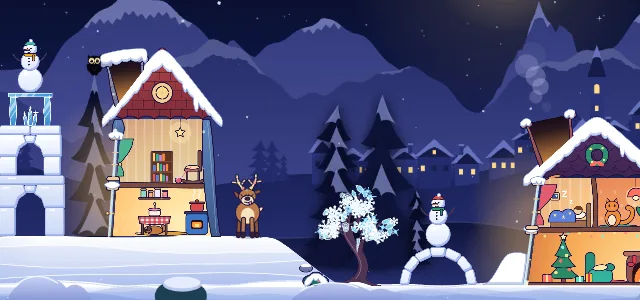
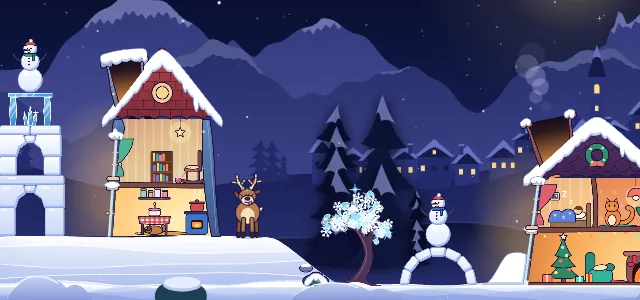
Pagina di avvio ricomposta: luna più a destra, titolo nel cielo, pulsanti in basso con Livelli
- Luna e gufo spostati a destra in tutto il gioco; promontorio roccioso non più sotto la luna
- Titolo alto nel cielo, centrato a sinistra della luna, lucine centrate sopra, PLAY in asse sotto
- Sulla pagina di avvio tutti i pulsanti in vista in basso a destra, anche Livelli
- Su computer il nome del livello sta sulla riga dei tre pallini
- Banner e anteprime dei livelli rifatti; service worker xmas26-v7

Claude-Session: https://claude.ai/code/session_01XhnLWWyvg1juX6865A71G7

diff --git a/src/render/hudDraw.js b/src/render/hudDraw.js
@@ -1,7 +1,7 @@
 import { VIEW_W, VIEW_H, GFX, GIFTS, SCORE, INTRO } from '../config.js';
 import { WALL, isPlugged } from '../entities/house.js';
 import { centroid } from '../physics/polygon.js';
-import { X, Y, TAU, stella5, V, setView, HUD, panelFit } from './view.js';
+import { X, Y, TAU, stella5, V, setView, HUD, UI, panelFit } from './view.js';
 import { cappello } from './snow.js';
 import { daCache } from './textCache.js';
 import { drawGiftIcon } from './propsDraw.js';
@@ -236,10 +236,12 @@ export function drawHud(ctx, game, top = 0) {
     daCache(ctx, `hud|${tipi.join(',')}|${punti}`, 0, 0, 460, 62, 0, 0, (c) => hudPacchiPunti(c, tipi, punti));
     ctx.restore();
   }
-  const yn = Math.max(76, top + 8 + 10 * k); // sotto i pulsanti
+  // nome del livello (solo su computer): sulla riga dei pulsanti, alla loro sinistra; sotto coprirebbe la luna
+  const yn = Math.max(24, top / 2 + 5);
+  const xn = Math.min(VIEW_W - 16, UI.left - 14);
   if (k <= GFX.hudNomeMax && game.state !== 'intro') { // durante la regia il nome è già grande in alto al centro; // sui telefoni (HUD ingrandito) il nome del livello non si mostra: toglie spazio alla scena
   ctx.save();
-  ctx.translate(VIEW_W - 16, yn);
+  ctx.translate(xn, yn);
   ctx.scale(k, k);
   daCache(ctx, `nome|${game.level.name}`, 0, 0, 620, 24, 620, 12, (c) => {
     c.globalAlpha = 0.72;
@@ -342,8 +344,8 @@ export function drawTitle(ctx, game, o = {}) {
   ctx.fillRect(0, 0, VIEW_W, VIEW_H);
   // filo di lucine appeso sopra il titolo
   const col = ['#ff6f61', '#ffd36b', '#5fe0b8', '#8fc8ff'];
-  const x0 = T.x - 340;
-  const lf = 590; // lunghezza del filo: si ferma prima della luna
+  const lf = 640; // lunghezza del filo, centrato sul titolo (finisce prima della luna)
+  const x0 = T.x - lf / 2;
   const filo = (u) => T.y - 92 + 26 * 4 * u * (1 - u);
   ctx.strokeStyle = 'rgba(20,16,60,0.9)';
   ctx.lineWidth = 2;
@@ -426,7 +428,7 @@ export function drawTitle(ctx, game, o = {}) {
   ctx.fill();
   testo(ctx, 'PLAY', 28, 2, 44, { col: '#fff', bordo: false, peso: 800 });
   ctx.restore();
-  if (o.stelle?.n) testo(ctx, `★ ${o.stelle.n} su ${o.stelle.max}`, T.x, T.play.y + 78, 20, { col: C.oro, bordo: 'rgba(12,14,52,0.7)', peso: 700 });
+  if (o.stelle?.n) testo(ctx, `★ ${o.stelle.n} su ${o.stelle.max}`, T.play.x, T.play.y + 78, 20, { col: C.oro, bordo: 'rgba(12,14,52,0.7)', peso: 700 });
 }
 
 /** Nome del livello al centro mentre la camera mostra le case (dissolvenza in entrata e uscita). */

diff --git a/src/config.js b/src/config.js
@@ -285,16 +285,16 @@ export const GFX = {
    * (aguzza, altopiano, asimmetrica, doppia, tonda; `roccia` solo a mano).
    * Le medie, più vicine, sono più basse e più tonde delle lontane.
    */
-  montiForma: [{ scala: 0.62, valle: 165, alzaVette: { 2: 120 }, togliVette: [3], varieta: true, vette: [{ x: 1005, h: 400, w: 190, forma: 'roccia' }] }, { scala: 0.55, valle: 165, tondo: 0.7, sposta: -140, vette: [{ x: 130, h: 330, w: 300 }], spostaVette: { 2: 120 } }],
+  montiForma: [{ scala: 0.62, valle: 165, alzaVette: { 2: 120 }, togliVette: [3], varieta: true, vette: [{ x: 1125, h: 400, w: 190, forma: 'roccia' }] }, { scala: 0.55, valle: 165, tondo: 0.7, sposta: -140, vette: [{ x: 130, h: 330, w: 300 }], spostaVette: { 2: 120 } }],
   stars: 150, // stelle fisse dipinte nel cielo
   atlas: { size: 2048, maxSprite: 512, pad: 2 }, // atlante degli sprite piccoli (px): una sola immagine per la scheda video
-  moon: { x: 905, y: 110, r: 44 }, // luna (px logici del cielo): disegnata nel cielo, dietro tutti i piani delle montagne
+  moon: { x: 1000, y: 110, r: 44 }, // luna (px logici del cielo): disegnata nel cielo, dietro tutti i piani delle montagne
   pannello: { x1: 920, y0: 16, y1: 516, margine: 8 }, // ingombro del pannello di fine livello (px logici, neve compresa) e distanza minima dai pulsanti in alto e dal bordo in basso
   /**
    * Pagina di avvio (px logici): centro del blocco del titolo, riga del titolo e del sottotitolo, centro e misure del
    * pulsante PLAY (che il gufo guarda). Il blocco sta a sinistra della luna, sopra la slitta e la fionda.
    */
-  titolo: { x: 540, y: 196, play: { x: 540, y: 392, w: 250, h: 88 } },
+  titolo: { x: 482, y: 122, play: { x: 482, y: 322, w: 250, h: 88 } },
   panelSnowPpm: 60, // scala (px per metro) del cappello di neve sul pannello di fine livello: neve grande come sui tetti
   piniAlone: 18, // sfumatura (px) dell'alone scuro attorno ai pini dietro la scena
   piniSchiarita: 0.1, // pini dietro la scena: quanto schiariscono verso la base (0 = tono pieno); bassa = sagome scure che si staccano dalle montagne

diff --git a/src/style.css b/src/style.css
@@ -60,7 +60,7 @@ canvas#game {
   gap: 6px;
   transition: opacity 0.2s;
 }
-/* Durante la mira e il lancio (e sulla pagina di avvio i pulsanti di gioco) i pulsanti spariscono: classe messa da main.js */
+/* Durante la mira e il lancio i pulsanti spariscono: classe messa da main.js */
 #controls.via { opacity: 0; pointer-events: none; }
 #controls button[hidden] { display: none; }
 /* Durante il livello (classe .gioco, da main.js) i pulsanti sono raccolti dietro il pulsante coi tre pallini:
@@ -100,8 +100,9 @@ canvas#game {
 @media (prefers-reduced-motion: reduce) {
   #controls.gioco.aperto > button:not(#menu-btn) { animation: none; }
 }
-#frame.titolo #controls [data-action] { display: none; }
-/* sulla pagina di avvio i pulsanti rimasti stanno in basso a destra: in alto coprirebbero la luna col gufo */
+/* Sulla pagina di avvio i pulsanti sono tutti in vista (manca solo Ricomincia, che lì non serve) e stanno in basso
+   a destra: in alto coprirebbero la luna col gufo */
+#frame.titolo #controls [data-action='reset'] { display: none; }
 #frame.titolo #controls { top: auto; bottom: 10px; }
 #frame.titolo #audio-pannello { top: auto; bottom: 58px; }
 

diff --git a/public/sw.js b/public/sw.js
@@ -5,7 +5,7 @@
 //   si usa la copia in cache;
 // - gli altri file (hanno il nome con l'impronta del contenuto) si servono dalla cache e si aggiornano in sottofondo.
 // Cambiare VERSIONE butta via le cache vecchie.
-const VERSIONE = 'xmas26-v6';
+const VERSIONE = 'xmas26-v7';
 const BASE = self.registration.scope;
 
 self.addEventListener('install', (e) => {

diff --git a/docs/HANDOFF.md b/docs/HANDOFF.md
@@ -55,7 +55,7 @@ Reindeer poses: `fronte` and `fianco` (side view, head up: looks ahead and every
 Level-specific keys: `camera.aimMaxW` (view width at full pull: must reach the last house), `previewDist` (trajectory shown up to this distance from the sling), house `stile`. The older levels were deleted (git history).
 
 ### Start page, level page, images (issue #1)
-- **Start page**: on a normal opening the game is in state `titolo` (`Game.showTitle()`): the level is built and still in the aim view, `hudDraw.drawTitle` draws title, lights and the PLAY button on the canvas, the owl looks at PLAY (`GFX.titolo`). A tap anywhere, Enter or Space calls `game.onPlay` → opening sequence. With `?level=` or `?debug` the title is skipped (tools and tests rely on it). On the title only audio/share/install/fullscreen buttons remain, moved to the bottom right.
+- **Start page**: on a normal opening the game is in state `titolo` (`Game.showTitle()`): the level is built and still in the aim view, `hudDraw.drawTitle` draws title, lights and the PLAY button on the canvas, the owl looks at PLAY (`GFX.titolo`). A tap anywhere, Enter or Space calls `game.onPlay` → opening sequence. With `?level=` or `?debug` the title is skipped (tools and tests rely on it). On the title all buttons except Reset are visible at the bottom right (at the top they would cover the moon); Levels works from there. Layout in `GFX.titolo` (title block centred in the sky left of the moon, PLAY on the same axis just above the sling). The moon is at `GFX.moon.x` 1000 for the whole game.
 - **Level page** (`#levels`, DOM): one card per level with a preview image `public/livelli/<id>.webp`, number, name, stars, best score. **Regenerate the previews with `npm run anteprime` when a level changes** (dev server running).
 - **Icon** `public/pacco.svg`: the flying gift with the dotted aim trail (proposal 2 of six in the "Notte di velluto" design artifact, chosen by the user on 18/11; ribbon deliberately off-centre). Earlier icons are in git history: owl in the moon `3b60be7`, gift box on the snow `f8dd813` → `npm run icone` makes `pacco-512.png` / `pacco-192.png` / `pacco-180.png`. **Banner** `public/og.png` = screenshot of the start page → `npm run og` (dev server running). All three use headless Chrome.
 - **Buttons during a level**: collapsed behind a three-dot button (`#menu-btn`; classes `.gioco` / `.aperto` on `#controls`, set by `main.js`); opening animates the buttons in with a small label under each (`data-etichetta`); they close on a second tap or on a touch on the scene. On the start page and on the end panel all buttons are visible. Chrome's tap highlight is off; pressed buttons turn gold.
@@ -296,7 +296,7 @@ Music (pre-recorded in `public/audio/musica.m4a`, AAC 48 kbps mono, 855 KB, 140.
 - After changing obstacles or houses always rerun `npm run sim:score -- <id>` and `npm run sim:play -- <id> --stars`.
 - Level 3 is now easier than before for the simulated players (third house lower and wider): if it must stay the hardest, plug or shrink an opening and rerun score/play.
 - On level 3 the card castle reaches the moon in the aim view (it did already with the wider view).
-- Service worker (now `xmas26-v6`, it also pre-caches the level previews — the list of names is in `sw.js`): bump `VERSIONE` in `public/sw.js` when publishing a new build if stale files must be dropped at once.
+- Service worker (now `xmas26-v7`, it also pre-caches the level previews — the list of names is in `sw.js`): bump `VERSIONE` in `public/sw.js` when publishing a new build if stale files must be dropped at once.
 - Automated checks: only `npm test` (stability); the rest is verified with the `tools/sim` measurements and in the browser/phone with the `xmas.*` helpers.
 
 ## 9. Recommended next steps

diff --git a/docs/GDD.md b/docs/GDD.md
@@ -483,6 +483,7 @@ Richieste dell'utente raccolte nella issue GitHub #1, fatte tutte e pubblicate l
 - **Icona, ritorno al pacco regalo**: su richiesta dell'utente l'icona dell'app torna quella precedente (pacco regalo sulla neve), con i nomi di prima (`icon.svg`, `icon-512.png`, `icon-180.png`) più `icon-192.png`; service worker `xmas26-v5`. Il gufo nella luna resta nel banner `og.png` (pagina di avvio) e nella storia di git (`public/gufo.svg`, commit `3b60be7`).
 - **Icona definitiva**: sei proposte aggiunte all'artefatto di design «Notte di velluto»; l'utente ha scelto la 2, «Pacco in volo» (pacco corallo che parte con la scia a puntini della mira), con il pacco più grande e il nastro fuori centro. File `pacco.svg`, `pacco-512.png`, `pacco-192.png`, `pacco-180.png` (nomi nuovi per non ritrovare le icone vecchie nelle memorie di Chrome); service worker `xmas26-v6`.
 - **Regia d'apertura, ordine definitivo**: il nome del livello compare in alto sul cielo (`INTRO.titoloY`, non più sopra le case), resta 2 s a camera ferma (`attesa`), sfuma in 0,8 s (`titoloSfuma`) e solo dopo parte il movimento di 6,2 s: circa 9 s in tutto, saltabili con un tocco. Durante la regia l'HUD mostra solo «Tocca per saltare» (niente pacchi e punti, che sul telefono toccherebbero il titolo). Misurato sull'S21: camera ferma fino a 2,7 s, in corsa a 6 s, livello pronto a 9,2 s.
+- **Pagina di avvio, composizione definitiva**: luna e gufo più a destra in tutto il gioco (`GFX.moon.x` 905 → 1000; il promontorio roccioso delle montagne lontane spostato a x 1125 perché non resti sotto la luna); titolo alto nel cielo, centrato nello spazio a sinistra della luna, con le lucine centrate sopra e PLAY in asse sotto, appena sopra la fionda (`GFX.titolo`); pulsanti in basso a destra, tutti in vista, compreso Livelli (da lì si sceglie un livello senza passare da PLAY). Su computer il nome del livello nell'HUD sta sulla riga dei tre pallini. Banner `og.png` e anteprime dei livelli rifatti; service worker `xmas26-v7`.
 - **Verifiche**: `npm test` 9 su 9, build riuscita. Chrome desktop: pagina di avvio, mira, pagina dei livelli, renna, terza casa. S21: pagina di avvio (anche a schermo intero), mira con pulsanti e suggerimento nascosti, finestra finale sotto i pulsanti, terza casa intera in volo; disegno 4,1–4,3 ms a scena ferma sul terzo livello, 60 FPS in volo (non a schermo intero, canvas 1194×560). Non verificati: suoni, pulsante Installa premuto davvero, iPhone.
 
 ## 8. Decisioni prese (17/11/2026)
